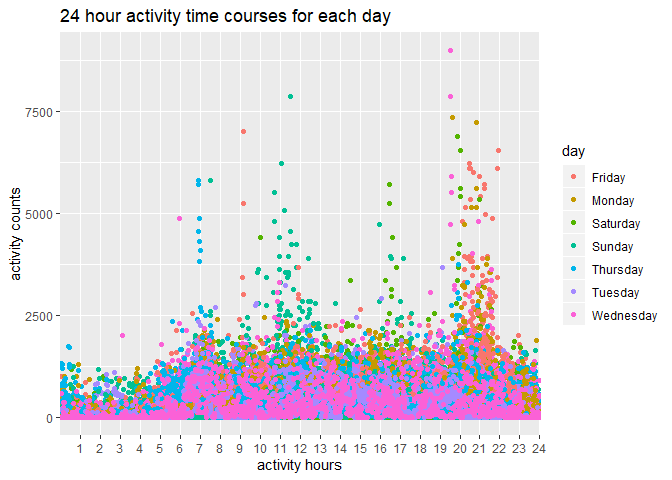
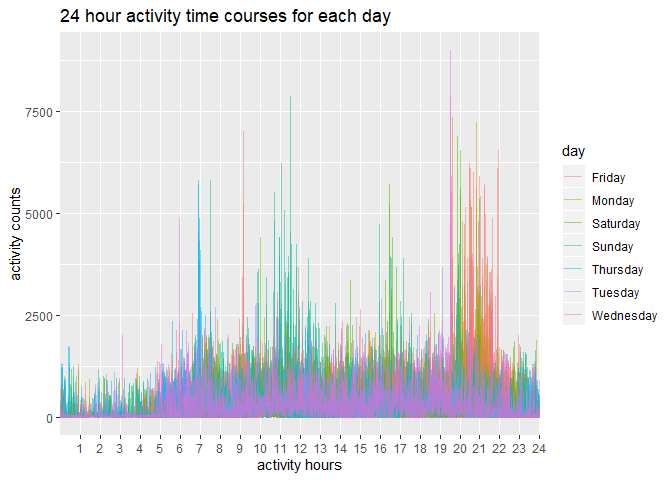
final version

Changed region(s): [[0.0625, 0.2188, 0.8125, 0.875], [0.2812, 0.375, 0.3125, 0.4062]]

diff --git a/hw3.md b/hw3.md
@@ -5,11 +5,12 @@ yj2580
 
 ## Problem 1
 
-This data has 1384617 entries and 15 variables in total. The structure
-of data is Key variables are: order\_id: order identifier product\_id:
-product identifier add\_to\_cart\_order: order in which each product was
-added to cart reordered: 1 if this prodcut has been ordered by this user
-in the past, 0 otherwise user\_id: customer identifier eval\_set: which
+This data has 1384617 entries and 15 variables in total. Each row of
+this table represents a detailed case of a specific purchasing. Key
+variables are: order\_id: order identifier product\_id: product
+identifier add\_to\_cart\_order: order in which each product was added
+to cart reordered: 1 if this prodcut has been ordered by this user in
+the past, 0 otherwise user\_id: customer identifier eval\_set: which
 evaluation set this order belongs in (Note that the data for use in this
 class is exclusively from the “train” eval\_set) order\_number: the
 order sequence number for this user (1=first, n=nth) order\_dow: the day
@@ -18,8 +19,13 @@ of the day on which the order was placed days\_since\_prior\_order: days
 since the last order, capped at 30, NA if order\_number=1 product\_name:
 name of the product aisle\_id: aisle identifier department\_id:
 department identifier aisle: the name of the aisle department: the name
-of the
-department
+of the department
+
+For example, in the first row, the user 112108 made an order at 10 am on
+Thursday. The product is “Bulgarian Yogurt” from aisle “Yogurt”,
+department “Dairy Eggs”. The user had purchased this product before. It
+had been 9 days since the last
+order.
 
 ``` r
 # create a dataframe from instacart grouped by aisles and summarize the count of each aisle
@@ -49,15 +55,18 @@ most items ordered from.
 #choose aisles with more than 10000 items
 aisle_new = aisle %>%
   filter(n>10000)
-ggplot(aisle_new, aes(x = aisle, y = n)) + geom_bar(stat = "identity")+
-  theme(axis.text.x = element_text(angle = 45, hjust = 1)) + labs(x = "Aisle", y = "The number of items", title = " The number of items ordered in each aisle") 
+ggplot(aisle_new, aes(x = aisle, y = n)) + 
+  geom_bar(stat = "identity")+
+  theme(axis.text.x = element_text(angle = 45, hjust = 1)) + 
+  labs(x = "Aisle", y = "The number of items", title = " The number of items ordered in each aisle") 
 ```
 
 ![](hw3_files/figure-gfm/unnamed-chunk-2-1.png)<!-- --> Comments: There
 are 39 aisles with more than 10000 items ordered in total. As shown in
 the plot, items of fresh fruits and fresh vegetables which had been
 ordered obviously outnumbered those of other aisles, with around 150000
-items. Items of most of aisles had been ordered for under 25000 times.
+items. Items from majority of aisles had been ordered for below 25000
+times.
 
 ``` r
 # find the three most popular items in aisles "baking ingredients"
@@ -105,13 +114,14 @@ rbind(bake_ingre, dog_food, pack_vege) %>%
 Comments: The three most popular items in aisles “dog food care” are
 Small Dog Biscuits, Organix Chicken & Brown Rice Recipe, and Snack
 Sticks Chicken & Rice Recipe Dog Treats, with the amount of 26, 28, and
-30 respectively. The three most popular items in aisles “baking
-ingredients” are Cane Sugar, Pure Baking Soda, and Light Brown Sugar,
-with the amount of 336, 387, and 499 respectively. The three most
-popular items in aisles “packaged vegetables fruits” are Organic
-Blueberries, Organic Raspberries, Organic Baby Spinach, with the amount
-of 4966, 5546, and 9784
-respectively.
+30 respectively. This aisle sold least items compared with the other
+two. The three most popular items in aisles “baking ingredients” are
+Cane Sugar, Pure Baking Soda, and Light Brown Sugar, with the amount of
+336, 387, and 499 respectively. The three most popular items in aisles
+“packaged vegetables fruits” are Organic Blueberries, Organic
+Raspberries, Organic Baby Spinach, with the amount of 4966, 5546, and
+9784 respectively. This aisle sold most items compared with the other
+two.
 
 ``` r
 # show the mean hour of the day at which Pink Lady apples are ordered on each day of the week
@@ -140,7 +150,9 @@ rbind(pink_lady, coff_ice) %>%
 | Pink Lady Apples | 13.15000 | 11.38889 | 12.06000 | 14.02703 | 12.0 | 12.80000 | 12.10526 |
 | Coffee Ice Cream | 13.48571 | 13.72727 | 15.29167 | 15.31818 | 14.8 | 12.22727 | 13.92105 |
 
-Comments:
+Comments: Pink Lady Apples were ordered from 11:00 to 14:00
+approximately, while coffee ice cream were ordered from 12:00 to 15:30
+approximately.
 
 ## Problem 2
 
@@ -224,8 +236,16 @@ mean_state_value %>%
 ggplot(mean_state_value, aes(x=year, y=mean_state_value, color=state)) + geom_line() + labs(x = "Year", y = "Average value", title = "Average value over time within a state")
 ```
 
-![](hw3_files/figure-gfm/unnamed-chunk-7-1.png)<!-- -->
-Comments:
+![](hw3_files/figure-gfm/unnamed-chunk-7-1.png)<!-- --> Comments:
+Average value over time in the same state doesn’t fluctuate a lot over
+time. However, there are some difference of the range of average value
+between different states over time. Among these, the average value in WV
+is obviously smaller than that in other states. Overall, this plot is
+not intuitive enough to see the pattern clearly because there are too
+many states and some colors look very similar. We could better divide
+these states into groups(eg. “East” and “West”), then make a two panel
+plot to help
+analysis.
 
 ``` r
 # Make a two-panel plot showing, for the years 2006, and 2010, distribution of data_value for responses (“Poor” to “Excellent”) among locations in NY State
@@ -244,7 +264,13 @@ p2 = ggplot(year10, aes(x = response, y = data_value, color = locationdesc, grou
 grid.arrange(p1, p2, nrow = 2)
 ```
 
-![](hw3_files/figure-gfm/unnamed-chunk-8-1.png)<!-- -->
+![](hw3_files/figure-gfm/unnamed-chunk-8-1.png)<!-- --> Comments: From
+2006 to 2010, the system enlarged its data collecting range from six
+counties to nine counties. The patterns of responce vs data value almost
+stay the same from 2006 to 2010. Data value increases from poor responce
+to good responce, then its peak appears in either good responce or very
+good responce, finally the value decreases when it goes to excellent
+responce.
 
 ## Problem 3
 
@@ -272,56 +298,79 @@ accel =
 
     ## See spec(...) for full column specifications.
 
-Comment:
+Comments: There are 6 variables and 50400 observations in total after
+tidying the data. Variables: week: in which week the activity counts
+were recorded day\_id: on which day the activity counts were recorded
+day: the day of the week weekend\_weekday: whether the day is weekdays
+or weekends minute: at which minute of that day the activity count was
+recorded activity\_counts: activity counts record
 
 ``` r
 accel %>%
-  group_by(day_id) %>%
+  group_by(day_id, day, week) %>%
   summarize(total_counts = sum(activity_counts)) %>%
   knitr::kable()
 ```
 
-| day\_id | total\_counts |
-| ------: | ------------: |
-|       1 |     480542.62 |
-|       2 |      78828.07 |
-|       3 |     376254.00 |
-|       4 |     631105.00 |
-|       5 |     355923.64 |
-|       6 |     307094.24 |
-|       7 |     340115.01 |
-|       8 |     568839.00 |
-|       9 |     295431.00 |
-|      10 |     607175.00 |
-|      11 |     422018.00 |
-|      12 |     474048.00 |
-|      13 |     423245.00 |
-|      14 |     440962.00 |
-|      15 |     467420.00 |
-|      16 |     685910.00 |
-|      17 |     382928.00 |
-|      18 |     467052.00 |
-|      19 |     371230.00 |
-|      20 |     381507.00 |
-|      21 |     468869.00 |
-|      22 |     154049.00 |
-|      23 |     409450.00 |
-|      24 |       1440.00 |
-|      25 |     260617.00 |
-|      26 |     340291.00 |
-|      27 |     319568.00 |
-|      28 |     434460.00 |
-|      29 |     620860.00 |
-|      30 |     389080.00 |
-|      31 |       1440.00 |
-|      32 |     138421.00 |
-|      33 |     549658.00 |
-|      34 |     367824.00 |
-|      35 |     445366.00 |
+| day\_id | day       | week | total\_counts |
+| ------: | :-------- | ---: | ------------: |
+|       1 | Friday    |    1 |     480542.62 |
+|       2 | Monday    |    1 |      78828.07 |
+|       3 | Saturday  |    1 |     376254.00 |
+|       4 | Sunday    |    1 |     631105.00 |
+|       5 | Thursday  |    1 |     355923.64 |
+|       6 | Tuesday   |    1 |     307094.24 |
+|       7 | Wednesday |    1 |     340115.01 |
+|       8 | Friday    |    2 |     568839.00 |
+|       9 | Monday    |    2 |     295431.00 |
+|      10 | Saturday  |    2 |     607175.00 |
+|      11 | Sunday    |    2 |     422018.00 |
+|      12 | Thursday  |    2 |     474048.00 |
+|      13 | Tuesday   |    2 |     423245.00 |
+|      14 | Wednesday |    2 |     440962.00 |
+|      15 | Friday    |    3 |     467420.00 |
+|      16 | Monday    |    3 |     685910.00 |
+|      17 | Saturday  |    3 |     382928.00 |
+|      18 | Sunday    |    3 |     467052.00 |
+|      19 | Thursday  |    3 |     371230.00 |
+|      20 | Tuesday   |    3 |     381507.00 |
+|      21 | Wednesday |    3 |     468869.00 |
+|      22 | Friday    |    4 |     154049.00 |
+|      23 | Monday    |    4 |     409450.00 |
+|      24 | Saturday  |    4 |       1440.00 |
+|      25 | Sunday    |    4 |     260617.00 |
+|      26 | Thursday  |    4 |     340291.00 |
+|      27 | Tuesday   |    4 |     319568.00 |
+|      28 | Wednesday |    4 |     434460.00 |
+|      29 | Friday    |    5 |     620860.00 |
+|      30 | Monday    |    5 |     389080.00 |
+|      31 | Saturday  |    5 |       1440.00 |
+|      32 | Sunday    |    5 |     138421.00 |
+|      33 | Thursday  |    5 |     549658.00 |
+|      34 | Tuesday   |    5 |     367824.00 |
+|      35 | Wednesday |    5 |     445366.00 |
+
+Comments: On day2, day24 and day31, the activity count was obviously
+lower. On Saturdays of week 4 and 5 (day24 and day31), there is only one
+activity count for each minute of 24 hours. The data for these two days
+is abnormal, so we could explore the reason behind. Maybe the
+accelerometer was worn unobstrusively. In that case, we should probably
+omit these data when analyzing or evaluating the trend. On day 4, day
+10, day 16, day 29, the activity counts are relatively high, with the
+amount of over 600000. However, there is no apparent trend from this
+table.
 
 ``` r
 accel %>%
-  ggplot(aes(x = minute, y = activity_counts, color = day)) + geom_point() + scale_x_discrete(breaks=seq(60,1440,60), labels = as.character(c(1:24))) + labs(x="activity hours", y="activity counts", title="24 hour activity time courses for each day")
+  ggplot(aes(x = minute, y = activity_counts, color = day)) + geom_line(alpha = .5) + scale_x_discrete(breaks=seq(60,1440,60), labels = as.character(c(1:24))) + labs(x="activity hours", y="activity counts", title="24 hour activity time courses for each day")
 ```
 
-![](hw3_files/figure-gfm/unnamed-chunk-11-1.png)<!-- -->
+![](hw3_files/figure-gfm/unnamed-chunk-11-1.png)<!-- --> Comments: As
+shown in the plot, most activity counts for each minute are below 2500.
+From 19:00 to 22:00, there is a extremely high frequency of high
+activity counts, mostly up to 5000. The highest activity count is
+recorded on Wednesday during this period. From 16:00 to 17:00, there are
+also some high activity counts recorded, especially on Saturday. From
+11:00 to 12:00 on Sunday, the activity counts are relatively high
+compared with other days. On Thursday, the activity counts are highest
+around 7:00.
